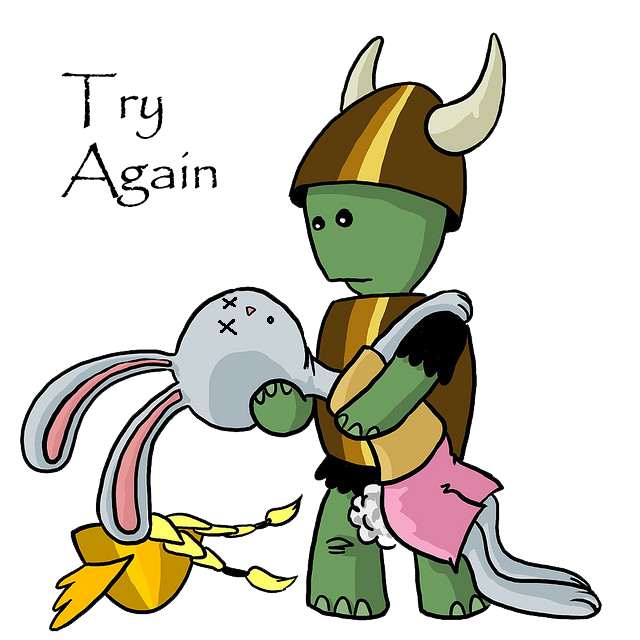
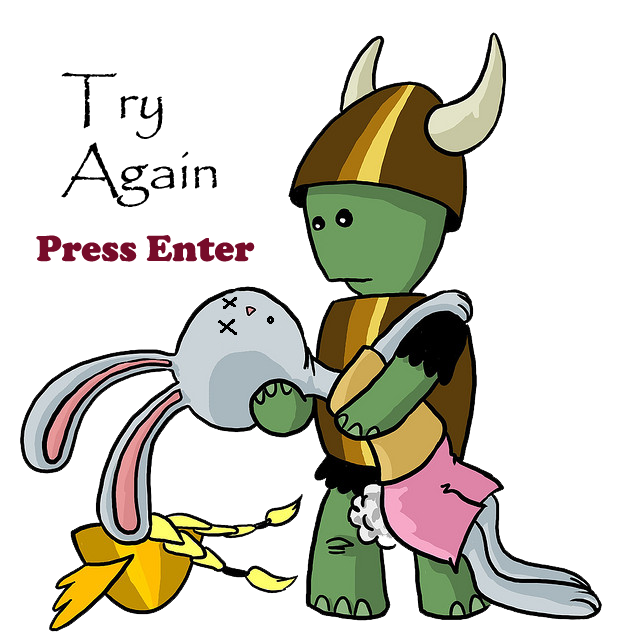
death screen now has press enter

Changed region(s): [[0.0625, 0.3438, 0.4062, 0.4062]]

diff --git a/Bunny-and-Clyde/Bunny-and-Clyde/InputManager.cs b/Bunny-and-Clyde/Bunny-and-Clyde/InputManager.cs
@@ -45,12 +45,12 @@ namespace Bunny_and_Clyde
             currentKeyboard = Keyboard.GetState();
             Vector2 direction;
             InactiveCharacter.Velocity -= new Vector2(InactiveCharacter.Velocity.X, 0);
-
-
+            if (currentKeyboard.IsKeyDown(Keys.Enter) || GamePad.GetState(PlayerIndex.One).Buttons.Start == ButtonState.Pressed){
+                worldSprites[worldSprites.Count - 2].Width = 0;
+            }
             if (currentKeyboard.IsKeyDown(Keys.Left) || GamePad.GetState(PlayerIndex.One).DPad.Left == ButtonState.Pressed)
             {
                 worldSprites[worldSprites.Count - 1].Width = 0;
-                worldSprites[worldSprites.Count - 2].Width = 0;
                 ActiveCharacter.Velocity = new Vector2(-ActiveCharacter.Speed, ActiveCharacter.Velocity.Y);
                 if (InactiveCharacter.state == Sprite.State.Riding)
                 {
@@ -61,7 +61,6 @@ namespace Bunny_and_Clyde
             else if (currentKeyboard.IsKeyDown(Keys.Right) || GamePad.GetState(PlayerIndex.One).DPad.Right == ButtonState.Pressed)
             {
                 worldSprites[worldSprites.Count - 1].Width = 0;
-                worldSprites[worldSprites.Count - 2].Width = 0;
                 ActiveCharacter.Velocity = new Vector2(ActiveCharacter.Speed, ActiveCharacter.Velocity.Y);
                 if (InactiveCharacter.state == Sprite.State.Riding)
                 {
@@ -75,7 +74,6 @@ namespace Bunny_and_Clyde
             if ((currentKeyboard.IsKeyDown(Keys.RightShift) || GamePad.GetState(PlayerIndex.One).Buttons.X == ButtonState.Pressed) && !check)
             {
                 worldSprites[worldSprites.Count - 1].Width = 0;
-                worldSprites[worldSprites.Count - 2].Width = 0;
                 //InactiveCharacter.state = previousState;
                 Sprite temp = ActiveCharacter;
                 ActiveCharacter = InactiveCharacter;
@@ -89,7 +87,6 @@ namespace Bunny_and_Clyde
             if ((currentKeyboard.IsKeyDown(Keys.Up) || GamePad.GetState(PlayerIndex.One).DPad .Up  == ButtonState.Pressed) )
             {
                 worldSprites[worldSprites.Count - 1].Width = 0;
-                worldSprites[worldSprites.Count - 2].Width = 0;
                 if (ActiveCharacter.state == Sprite.State.Swimming)
                 {
                     ActiveCharacter.Velocity += new Vector2(0, -ActiveCharacter.Speed);
@@ -98,7 +95,7 @@ namespace Bunny_and_Clyde
             if ((currentKeyboard.IsKeyDown(Keys.Down) || GamePad.GetState(PlayerIndex.One).DPad.Down == ButtonState.Pressed))
             {
                 worldSprites[worldSprites.Count - 1].Width = 0;
-                worldSprites[worldSprites.Count - 2].Width = 0;
+                
                 if (ActiveCharacter.state == Sprite.State.Swimming)
                 {
                     ActiveCharacter.Velocity += new Vector2(0, ActiveCharacter.Speed);
@@ -111,7 +108,7 @@ namespace Bunny_and_Clyde
             if ((currentKeyboard.IsKeyDown(Keys.Space) || GamePad .GetState (PlayerIndex.One).Buttons .A == ButtonState.Pressed) && (ActiveCharacter.state == Sprite.State.Default || ActiveCharacter.state ==  Sprite.State.Riding ))
             {
                 worldSprites[worldSprites.Count - 1].Width = 0;
-                worldSprites[worldSprites.Count - 2].Width = 0;
+                
                 if (bunny)
                  {
                     sounds[0].Play();
